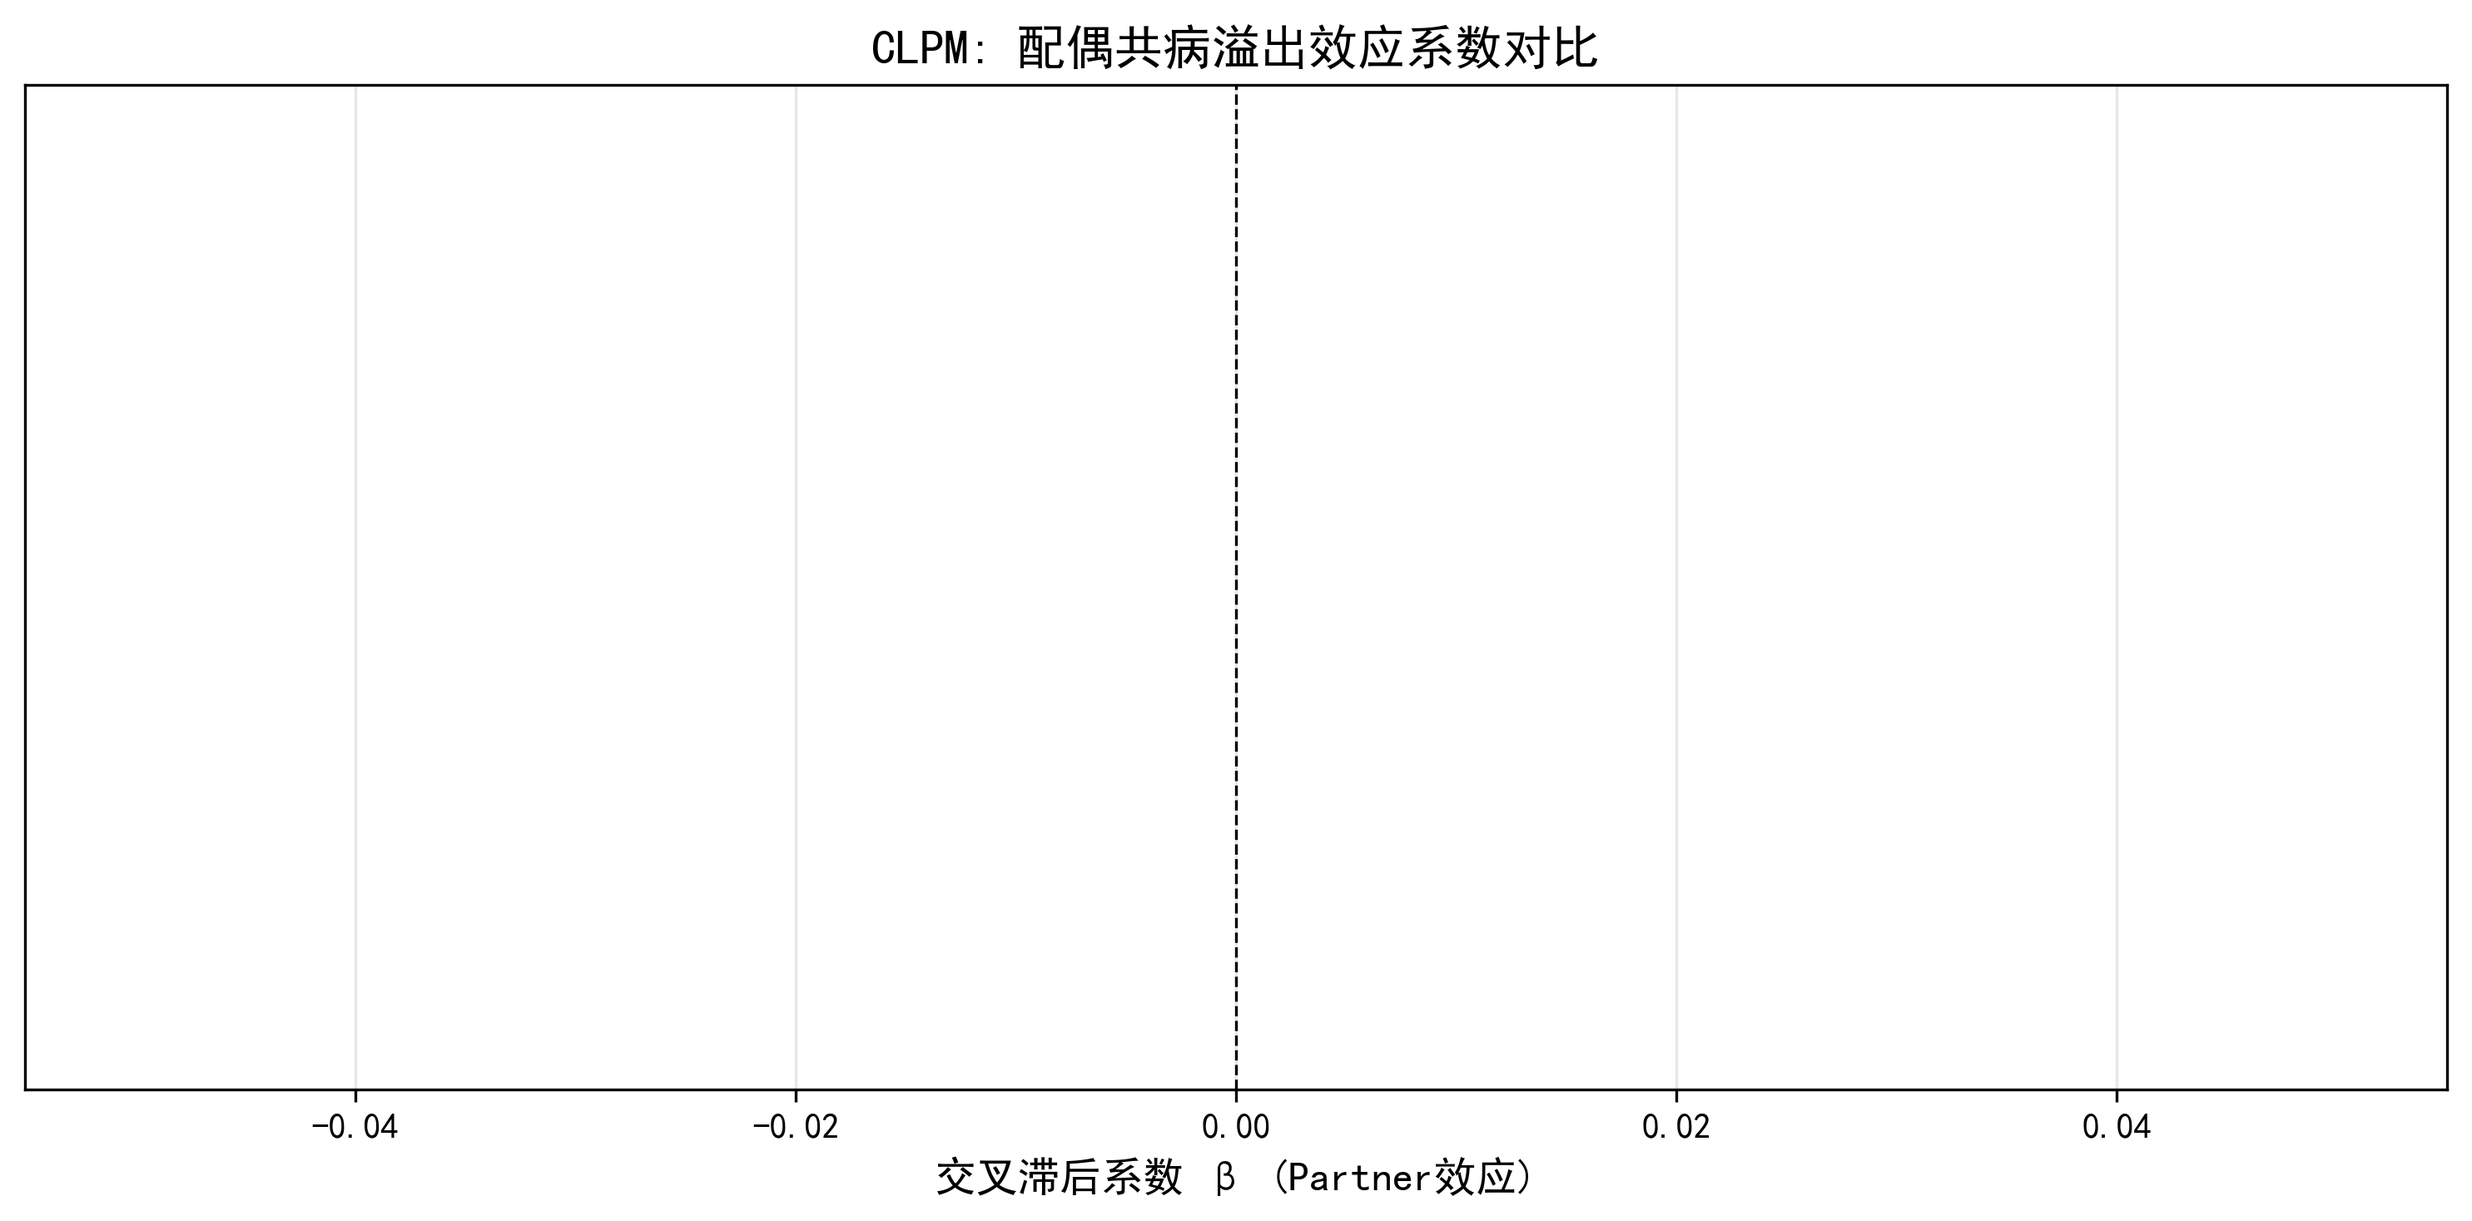
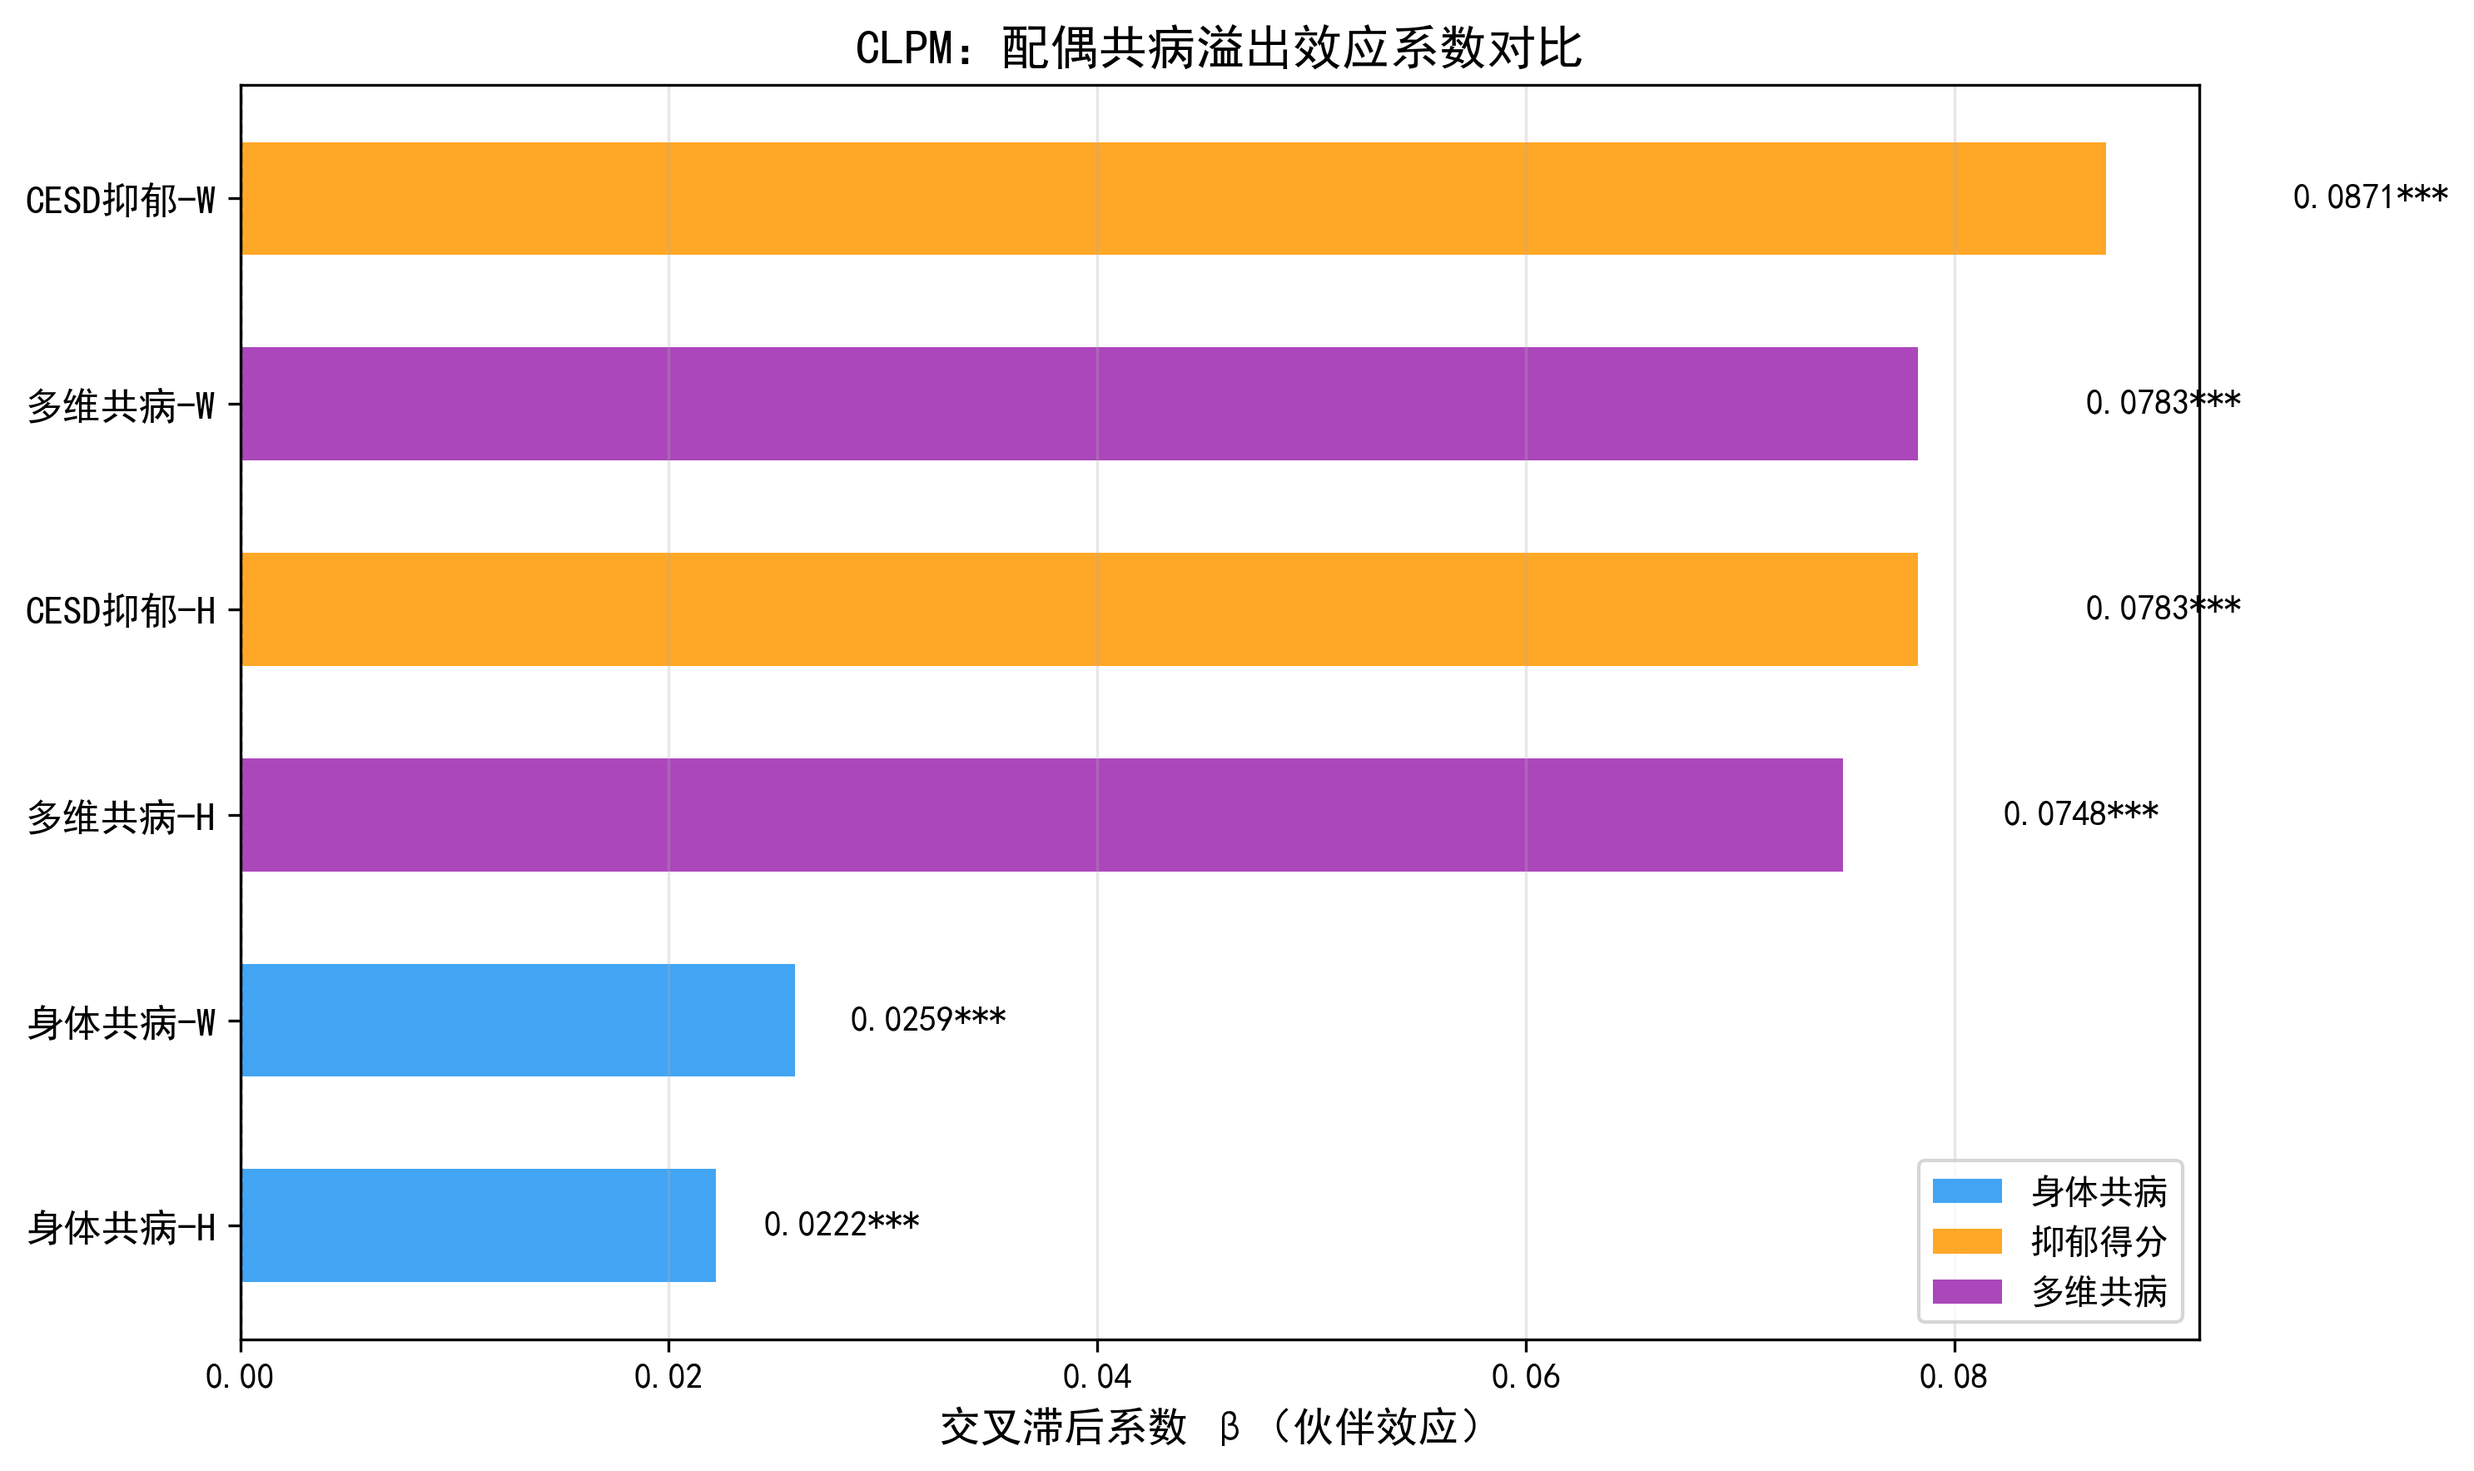
fix: 修复图12空白问题并优化可视化
原因：CLPM结果表的因变量列名格式变更后，图12的筛选条件
未同步更新导致数据为空。

修复：
- 改用模糊匹配替代硬编码列名筛选
- 按β值排序展示，三色区分身体/抑郁/多维共病
- 同步修复fig15概览图中的CLPM面板

diff --git a/scripts/04_visualization_sensitivity.py b/scripts/04_visualization_sensitivity.py
@@ -129,36 +129,68 @@ print("绘制 CLPM 系数对比图...")
 
 clpm_cross = clpm_df[clpm_df['效应类型'] == '交叉效应(Partner)'].copy()
 
-fig, ax = plt.subplots(figsize=(10, 5))
-# 按因变量分组
-vars_order = ['丈夫身体共病(t+1)', '妻子身体共病(t+1)',
-              '丈夫CESD(t+1)', '妻子CESD(t+1)',
-              '丈夫多维共病(t+1)', '妻子多维共病(t+1)']
-clpm_cross = clpm_cross[clpm_cross['因变量'].isin(vars_order)]
-clpm_cross['因变量'] = pd.Categorical(clpm_cross['因变量'], categories=vars_order, ordered=True)
-clpm_cross = clpm_cross.sort_values('因变量')
+# 若筛选为空，尝试匹配新格式的效应类型名
+if len(clpm_cross) == 0:
+    clpm_cross = clpm_df[clpm_df['效应类型'].str.contains('交叉|Partner|Cross', case=False, na=False)].copy()
 
-y_pos = range(len(clpm_cross))
-beta_vals = clpm_cross['β'].apply(lambda x: float(x))
-colors = ['#2196F3' if '丈夫' in v else '#E91E63' for v in clpm_cross['因变量']]
+if len(clpm_cross) > 0:
+    fig, ax = plt.subplots(figsize=(10, 6))
 
-ax.barh(list(y_pos), beta_vals, color=colors, alpha=0.8, height=0.6)
-ax.axvline(x=0, color='black', linestyle='--', linewidth=0.8)
+    # 按β值排序展示
+    clpm_cross['β_float'] = clpm_cross['β'].apply(lambda x: float(x))
+    clpm_cross = clpm_cross.sort_values('β_float')
 
-# 添加数值标签
-for i, (v, sig) in enumerate(zip(beta_vals, clpm_cross['显著性'])):
-    ax.text(v + 0.002, i, f'{v:.4f}{sig}', va='center', fontsize=10)
+    y_pos = range(len(clpm_cross))
+    beta_vals = clpm_cross['β_float']
 
-ax.set_yticks(list(y_pos))
-ax.set_yticklabels(clpm_cross['因变量'], fontsize=11)
-ax.set_xlabel('交叉滞后系数 β (Partner效应)', fontsize=12)
-ax.set_title('CLPM: 配偶共病溢出效应系数对比', fontsize=14)
-ax.grid(True, alpha=0.3, axis='x')
+    # 根据因变量名着色：身体=蓝，CESD/抑郁=橙，多维=紫
+    def get_color(name):
+        name = str(name)
+        if '身体' in name or 'phys' in name.lower():
+            return '#2196F3'
+        elif 'CESD' in name or '抑郁' in name or 'cesd' in name.lower():
+            return '#FF9800'
+        else:
+            return '#9C27B0'
 
-plt.tight_layout()
-plt.savefig(os.path.join(FIG_DIR, "fig12_clpm_comparison.png"), dpi=300, bbox_inches='tight')
-plt.close()
-print("已保存: fig12_clpm_comparison.png")
+    colors = [get_color(v) for v in clpm_cross['因变量']]
+
+    bars = ax.barh(list(y_pos), beta_vals, color=colors, alpha=0.85, height=0.55)
+    ax.axvline(x=0, color='black', linestyle='--', linewidth=0.8)
+
+    # 添加数值标签
+    for i, (v, sig) in enumerate(zip(beta_vals, clpm_cross['显著性'])):
+        offset = max(abs(v) * 0.1, 0.002)
+        ax.text(v + offset, i, f'{v:.4f}{sig}', va='center', fontsize=10, fontweight='bold')
+
+    # Y轴标签：简化因变量名
+    ylabels = []
+    for name in clpm_cross['因变量']:
+        name = str(name)
+        name = name.replace('(t+1)', '').replace('（t+1）', '').strip()
+        ylabels.append(name)
+
+    ax.set_yticks(list(y_pos))
+    ax.set_yticklabels(ylabels, fontsize=11)
+    ax.set_xlabel('交叉滞后系数 β（伙伴效应）', fontsize=12)
+    ax.set_title('CLPM：配偶共病溢出效应系数对比', fontsize=14, fontweight='bold')
+    ax.grid(True, alpha=0.3, axis='x')
+
+    # 图例
+    from matplotlib.patches import Patch
+    legend_elements = [
+        Patch(facecolor='#2196F3', alpha=0.85, label='身体共病'),
+        Patch(facecolor='#FF9800', alpha=0.85, label='抑郁得分'),
+        Patch(facecolor='#9C27B0', alpha=0.85, label='多维共病'),
+    ]
+    ax.legend(handles=legend_elements, fontsize=10, loc='lower right')
+
+    plt.tight_layout()
+    plt.savefig(os.path.join(FIG_DIR, "fig12_clpm_comparison.png"), dpi=300, bbox_inches='tight')
+    plt.close()
+    print("已保存: fig12_clpm_comparison.png")
+else:
+    print("警告: 未找到交叉效应数据，跳过图12")
 
 # ============================================================
 # 3. 夫妻轨迹组合与健康结局热力图
@@ -467,29 +499,31 @@ ax.grid(True, alpha=0.3)
 
 # 6c. CLPM Partner效应对比 (左下)
 ax = axes[1, 0]
-clpm_cross_sorted = clpm_cross.copy()
-beta_vals = clpm_cross_sorted['β'].apply(lambda x: float(x))
-y_pos = range(len(clpm_cross_sorted))
-colors = ['#2196F3' if '丈夫' in v else '#E91E63' for v in clpm_cross_sorted['因变量']]
-bars = ax.barh(list(y_pos), beta_vals, color=colors, alpha=0.8, height=0.5)
-for i, (v, sig) in enumerate(zip(beta_vals, clpm_cross_sorted['显著性'])):
-    ax.text(v + 0.001, i, f'{v:.4f}{sig}', va='center', fontsize=9)
-ax.set_yticks(list(y_pos))
-short_labels = [v.replace('(t+1)', '') for v in clpm_cross_sorted['因变量']]
-ax.set_yticklabels(short_labels, fontsize=10)
-ax.set_xlabel('Partner效应 β', fontsize=11)
+if len(clpm_cross) > 0:
+    clpm_c = clpm_cross.copy()
+    beta_c = clpm_c['β_float'] if 'β_float' in clpm_c.columns else clpm_c['β'].apply(lambda x: float(x))
+    y_pos_c = range(len(clpm_c))
+    colors_c = [get_color(v) for v in clpm_c['因变量']]
+    ax.barh(list(y_pos_c), beta_c, color=colors_c, alpha=0.85, height=0.5)
+    for i, (v, sig) in enumerate(zip(beta_c, clpm_c['显著性'])):
+        ax.text(v + 0.001, i, f'{v:.4f}{sig}', va='center', fontsize=9)
+    ax.set_yticks(list(y_pos_c))
+    short_labels = [str(v).replace('(t+1)', '').replace('（t+1）', '').strip() for v in clpm_c['因变量']]
+    ax.set_yticklabels(short_labels, fontsize=10)
+ax.set_xlabel('伙伴效应 β', fontsize=11)
 ax.set_title('C. CLPM 配偶溢出效应', fontsize=13, fontweight='bold')
 ax.axvline(x=0, color='black', linestyle='--', linewidth=0.8)
 ax.grid(True, alpha=0.3, axis='x')
 
-# 6d. APIM Actor vs Partner (右下)
+# 6d. APIM 行动者 vs 伙伴 (右下)
 ax = axes[1, 1]
 apim_df = pd.read_csv(os.path.join(TAB_DIR, "table7_apim_results.csv"))
-apim_main = apim_df[apim_df['效应类型'].isin(['Actor效应', 'Partner效应'])].copy()
+apim_main = apim_df[apim_df['效应类型'].isin(['Actor效应', 'Partner效应',
+                                              '行动者效应', '伙伴效应'])].copy()
 apim_main = apim_main[~apim_main['结局变量'].str.contains('交互')].copy()
 
 y_pos = range(len(apim_main))
-colors = ['#2196F3' if 'Actor' in e else '#E91E63' for e in apim_main['效应类型']]
+colors = ['#2196F3' if ('Actor' in e or '行动者' in e) else '#E91E63' for e in apim_main['效应类型']]
 ax.barh(list(y_pos), apim_main['β'], color=colors, alpha=0.8, height=0.5)
 for i, (v, sig) in enumerate(zip(apim_main['β'], apim_main['显著性'])):
     offset = 0.01 if abs(v) < 0.1 else v * 0.05
